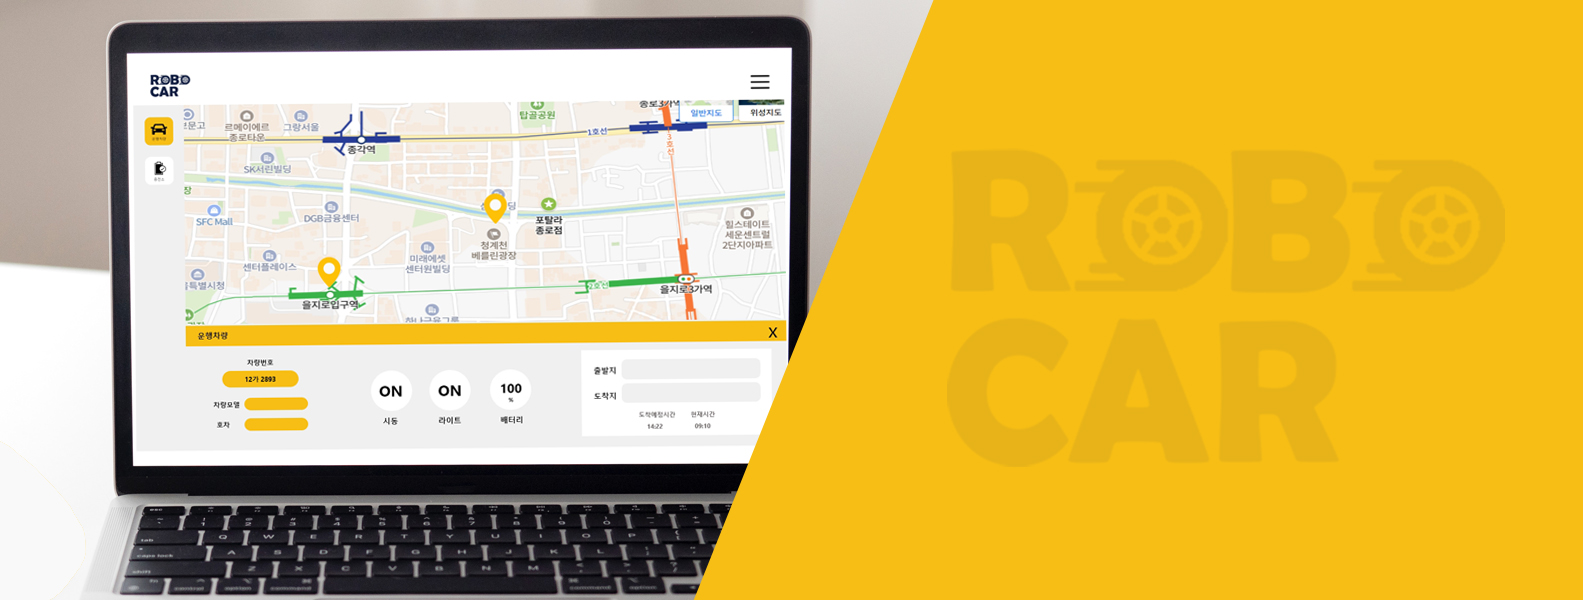
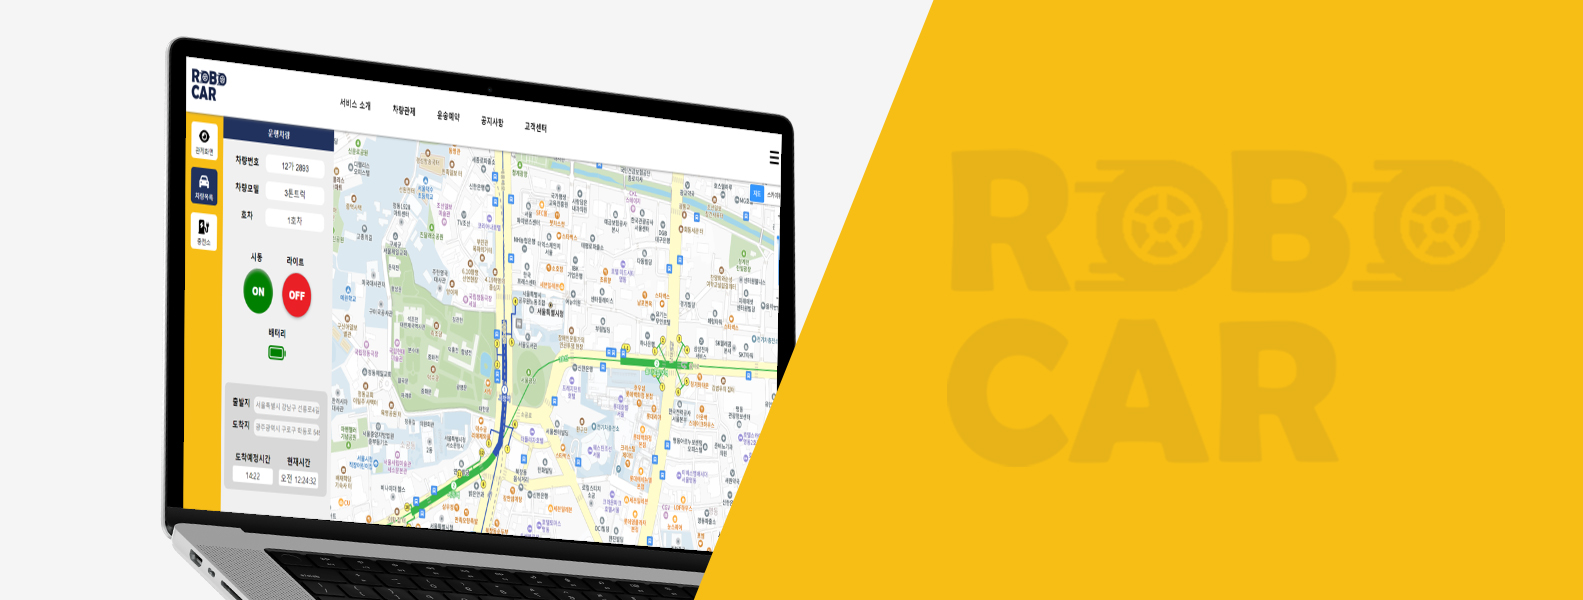
style: [서비스 소개-키이미지, 차량관제이미지추가, 아이콘 위치 수정]

diff --git a/src/style/About_us.module.css b/src/style/About_us.module.css
@@ -239,13 +239,13 @@
   width: var(--tabmenu-width);
   margin: auto;
   margin-top: 50px;
+  position: relative;
 }
 .checkmark_control {
-  /* border: 1px solid #000; */
   position: absolute;
   width: 30px;
   height: 30px;
-  left: 20%;
+  left: 2%;
   margin-top: 3px;
 }
 .checkmark_control_02 {
@@ -253,7 +253,7 @@
   position: absolute;
   width: 30px;
   height: 30px;
-  left: 38.5%;
+  left: 32%;
   margin-top: 3px;
 }
 .info_wrap > p {
@@ -271,15 +271,14 @@
 }
 /*차량관제 화면 이용안내*/
 .control_image {
-  /* border: 1px solid #000; */
   width: 100%;
   text-align: center;
   margin-top: 20px;
 }
 .control_image img {
-  width: var(--tabmenu-width);
+  width: 950px;
   border-radius: 30px;
-  height: 400px;
+  height: 500px;
 }
 .control_step_wrap {
   /* border: 1px solid red; */
@@ -398,11 +397,10 @@
   margin-bottom: 100px;
 }
 .checkmark {
-  /* border: 1px solid #000; */
   position: absolute;
   width: 30px;
   height: 30px;
-  left: 40.5%;
+  left: 35%;
   margin-top: 3px;
 }
 .book_price_wrap > p {

diff --git a/src/components/About_us.js b/src/components/About_us.js
@@ -6,7 +6,7 @@ import truck01 from "../assets/truck_01.png";
 import truck02 from "../assets/truck_02.png";
 import outlineimage01 from "../assets/outlineimage_01.jpg";
 import outlineimage02 from "../assets/outlineimage_02.jpg";
-import controlimage from "../assets/controlimage.jpg";
+import controlmain from "../assets/controlmain.png";
 import info from "../assets/info.png";
 import calendar from "../assets/calendar.png";
 import packagepick from "../assets/packagepick.png";
@@ -107,7 +107,7 @@ const AboutUs = () => {
             />
             <p>차량관제 화면</p>
             <div className={styles.control_image}>
-              <img src={controlimage} alt="React" />
+              <img src={controlmain} alt="React" />
             </div>
             <div className={styles.control_step_wrap}>
               <img
